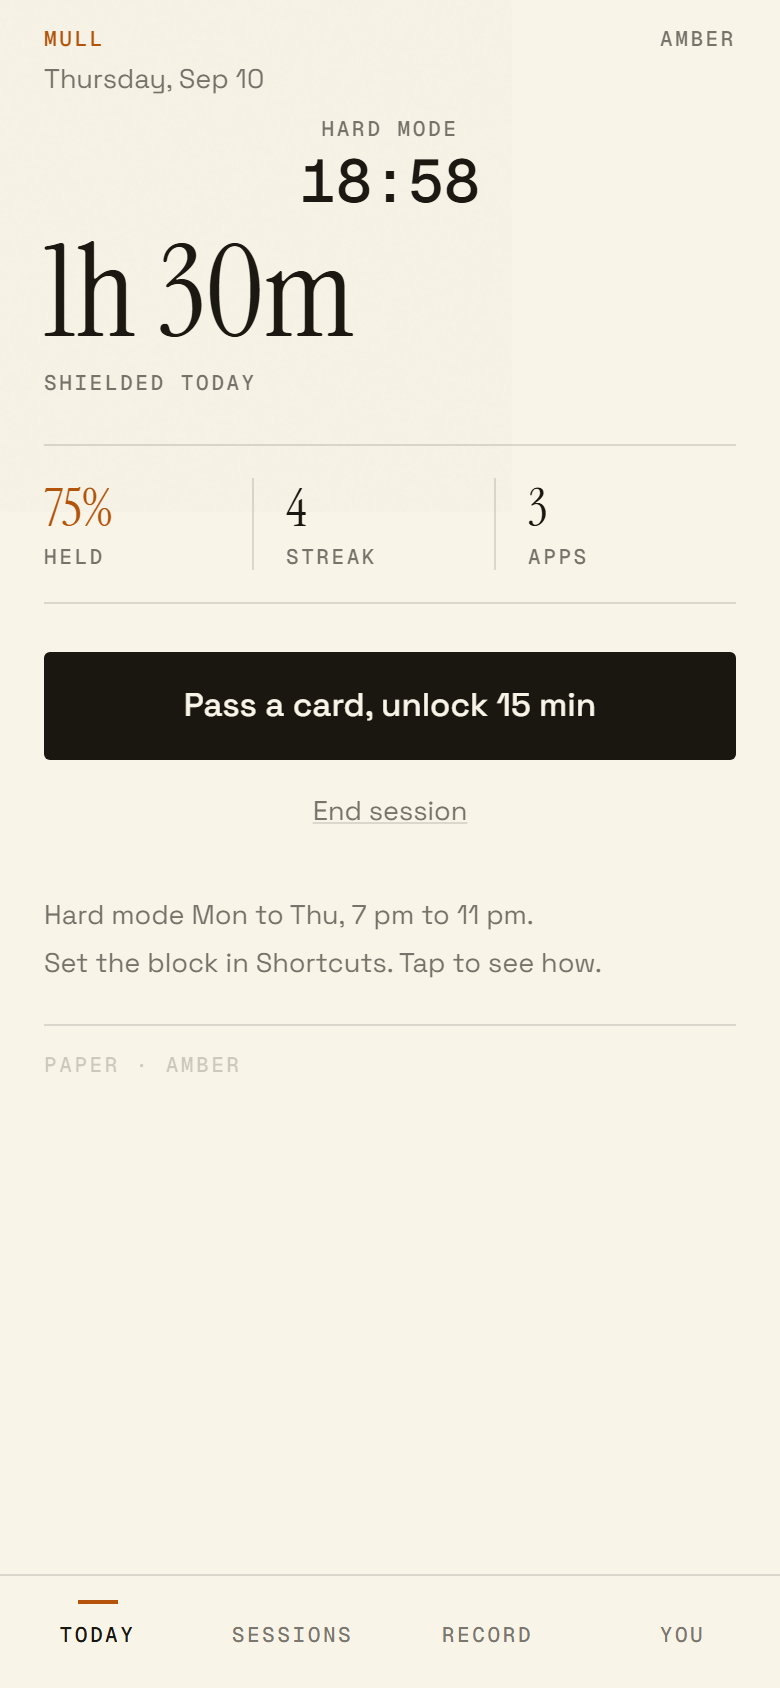
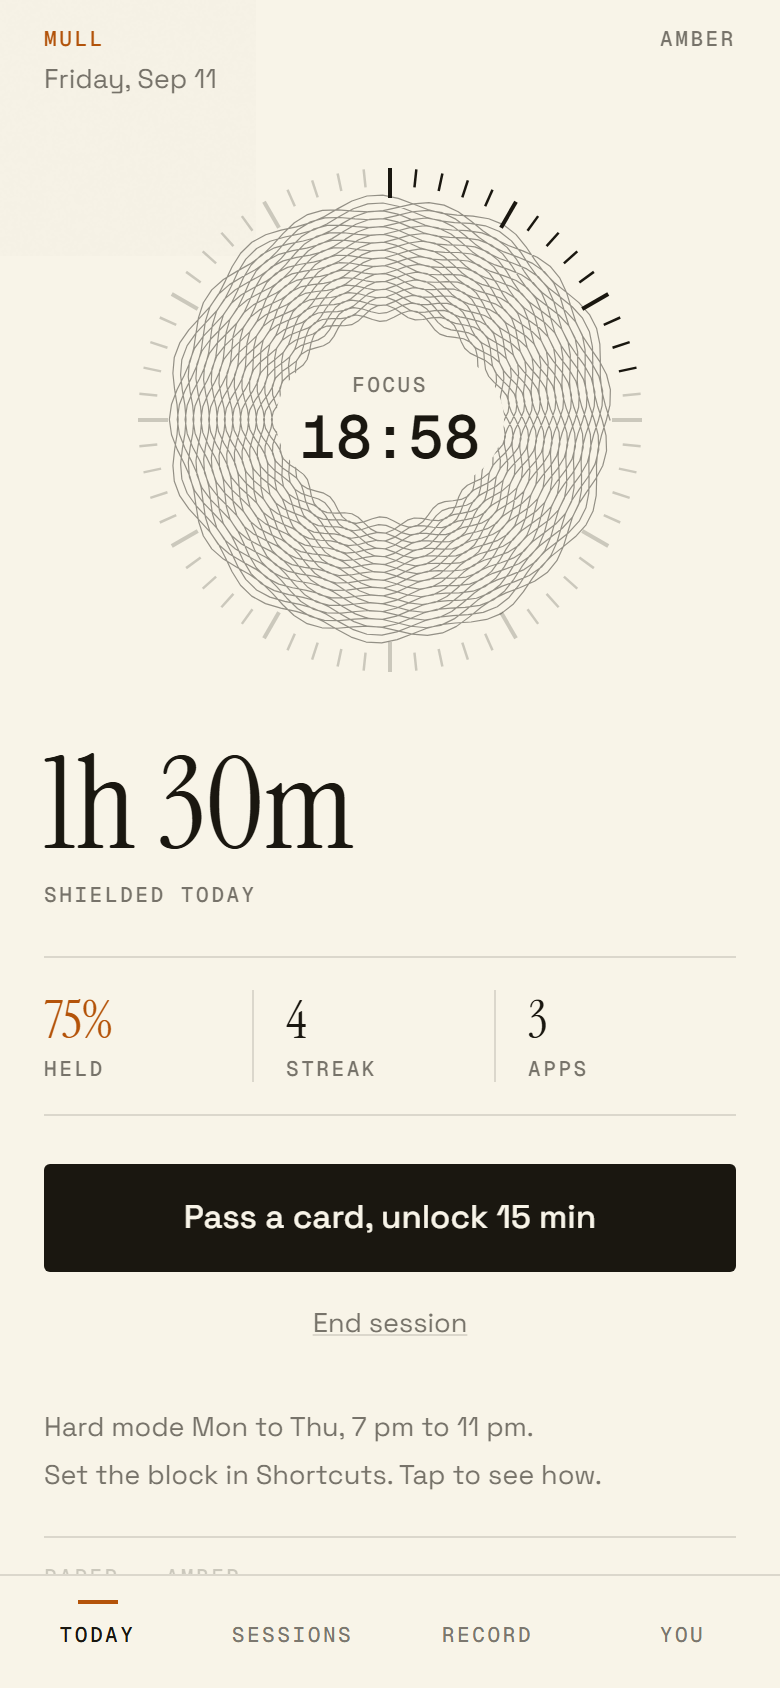
mobile: dial measures itself; harness now tests a cold load
The live deploy rendered the dial at 0x0. useWindowDimensions reports 0
on the first paint of a statically rendered page, so box was 0 and the
seal, bezel and countdown all collapsed. The dial now measures its own
row with onLayout and only falls back to the window.

This was never a deploy problem: it reproduced locally the moment I
loaded the build cold. The screenshot harness hid it by seeding
localStorage and navigating a second time, so every shot was a warm
load. It now shoots a genuine first paint before seeding anything and
fails if any svg comes back 0 wide.

diff --git a/apps/mobile/src/dial.tsx b/apps/mobile/src/dial.tsx
@@ -1,4 +1,4 @@
-import React, { useEffect, useRef } from 'react';
+import React, { useEffect, useRef, useState } from 'react';
 import { Animated, Easing, useWindowDimensions, View } from 'react-native';
 import Svg, { Circle, G, Line } from 'react-native-svg';
 import type { Seal } from './guilloche';
@@ -30,9 +30,14 @@ const AnimatedLine = Animated.createAnimatedComponent(Line);
  */
 export function Dial({ state, progress, label, value, a11y, seal }: DialProps) {
   const { c, reduceMotion } = useTheme();
-  const { width } = useWindowDimensions();
+  const { width: windowWidth } = useWindowDimensions();
+  // useWindowDimensions reports 0 on the first paint of a statically rendered
+  // page, which collapsed the whole dial to 0x0 on a cold load. onLayout gives
+  // the real width once the row is measured; the window is only a fallback.
+  const [rowWidth, setRowWidth] = useState(0);
+  const available = rowWidth || windowWidth || 360;
 
-  const size = Math.min(Math.round(width * 0.74), 320);
+  const size = Math.min(Math.round(available * 0.74), 320);
   const box = size;
   const cx = box / 2;
   const cy = box / 2;
@@ -75,7 +80,8 @@ export function Dial({ state, progress, label, value, a11y, seal }: DialProps) {
   });
 
   return (
-    <View accessible accessibilityLabel={a11y} style={{ width: box, height: box, alignSelf: 'center', alignItems: 'center', justifyContent: 'center' }}>
+    <View onLayout={(e) => setRowWidth(e.nativeEvent.layout.width)} style={{ width: '100%', alignItems: 'center' }}>
+      <View accessible accessibilityLabel={a11y} style={{ width: box, height: box, alignItems: 'center', justifyContent: 'center' }}>
       <Rosette
         size={box}
         innerRatio={0.4}
@@ -115,11 +121,12 @@ export function Dial({ state, progress, label, value, a11y, seal }: DialProps) {
             {label}
           </T>
         ) : null}
-        {value ? (
-          <T v="numeralMd" color={state === 'resting' ? c.fgMuted : c.fg}>
-            {value}
-          </T>
-        ) : null}
+          {value ? (
+            <T v="numeralMd" color={state === 'resting' ? c.fgMuted : c.fg}>
+              {value}
+            </T>
+          ) : null}
+        </View>
       </View>
     </View>
   );
